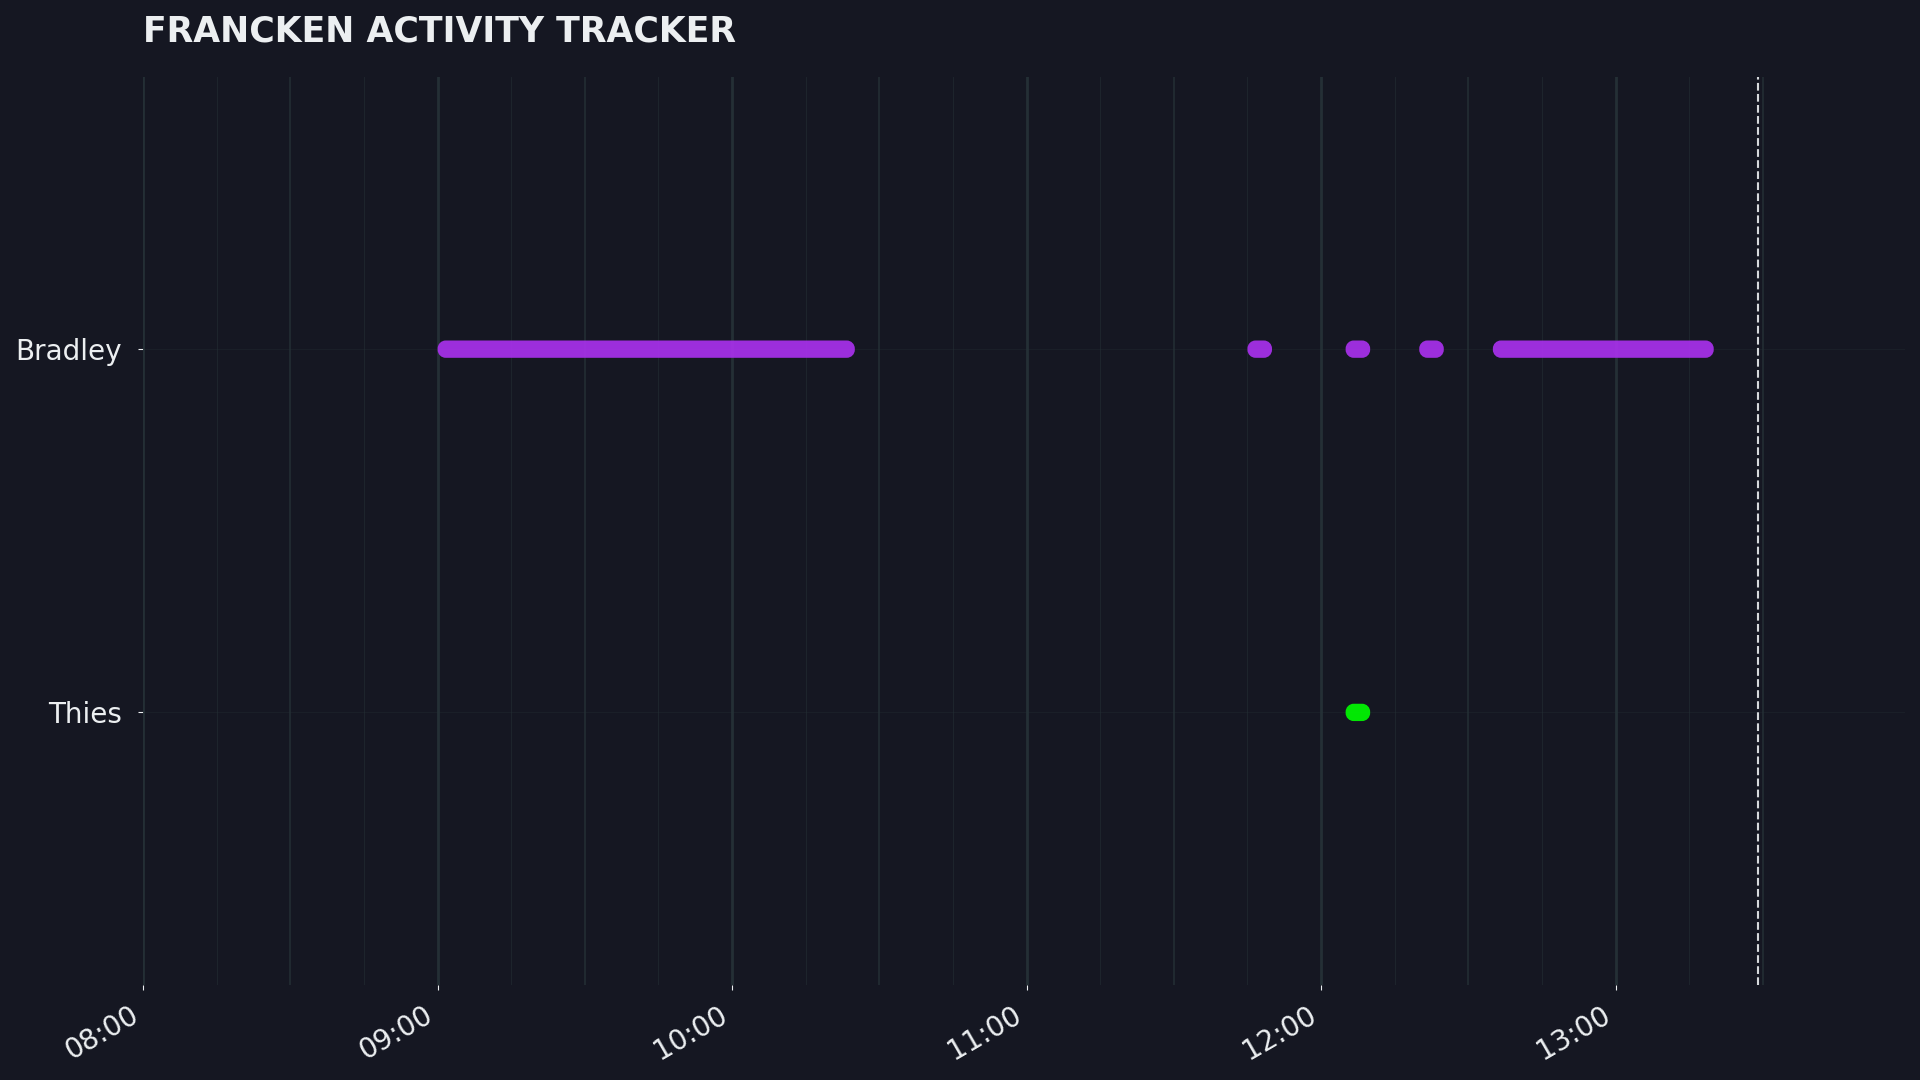
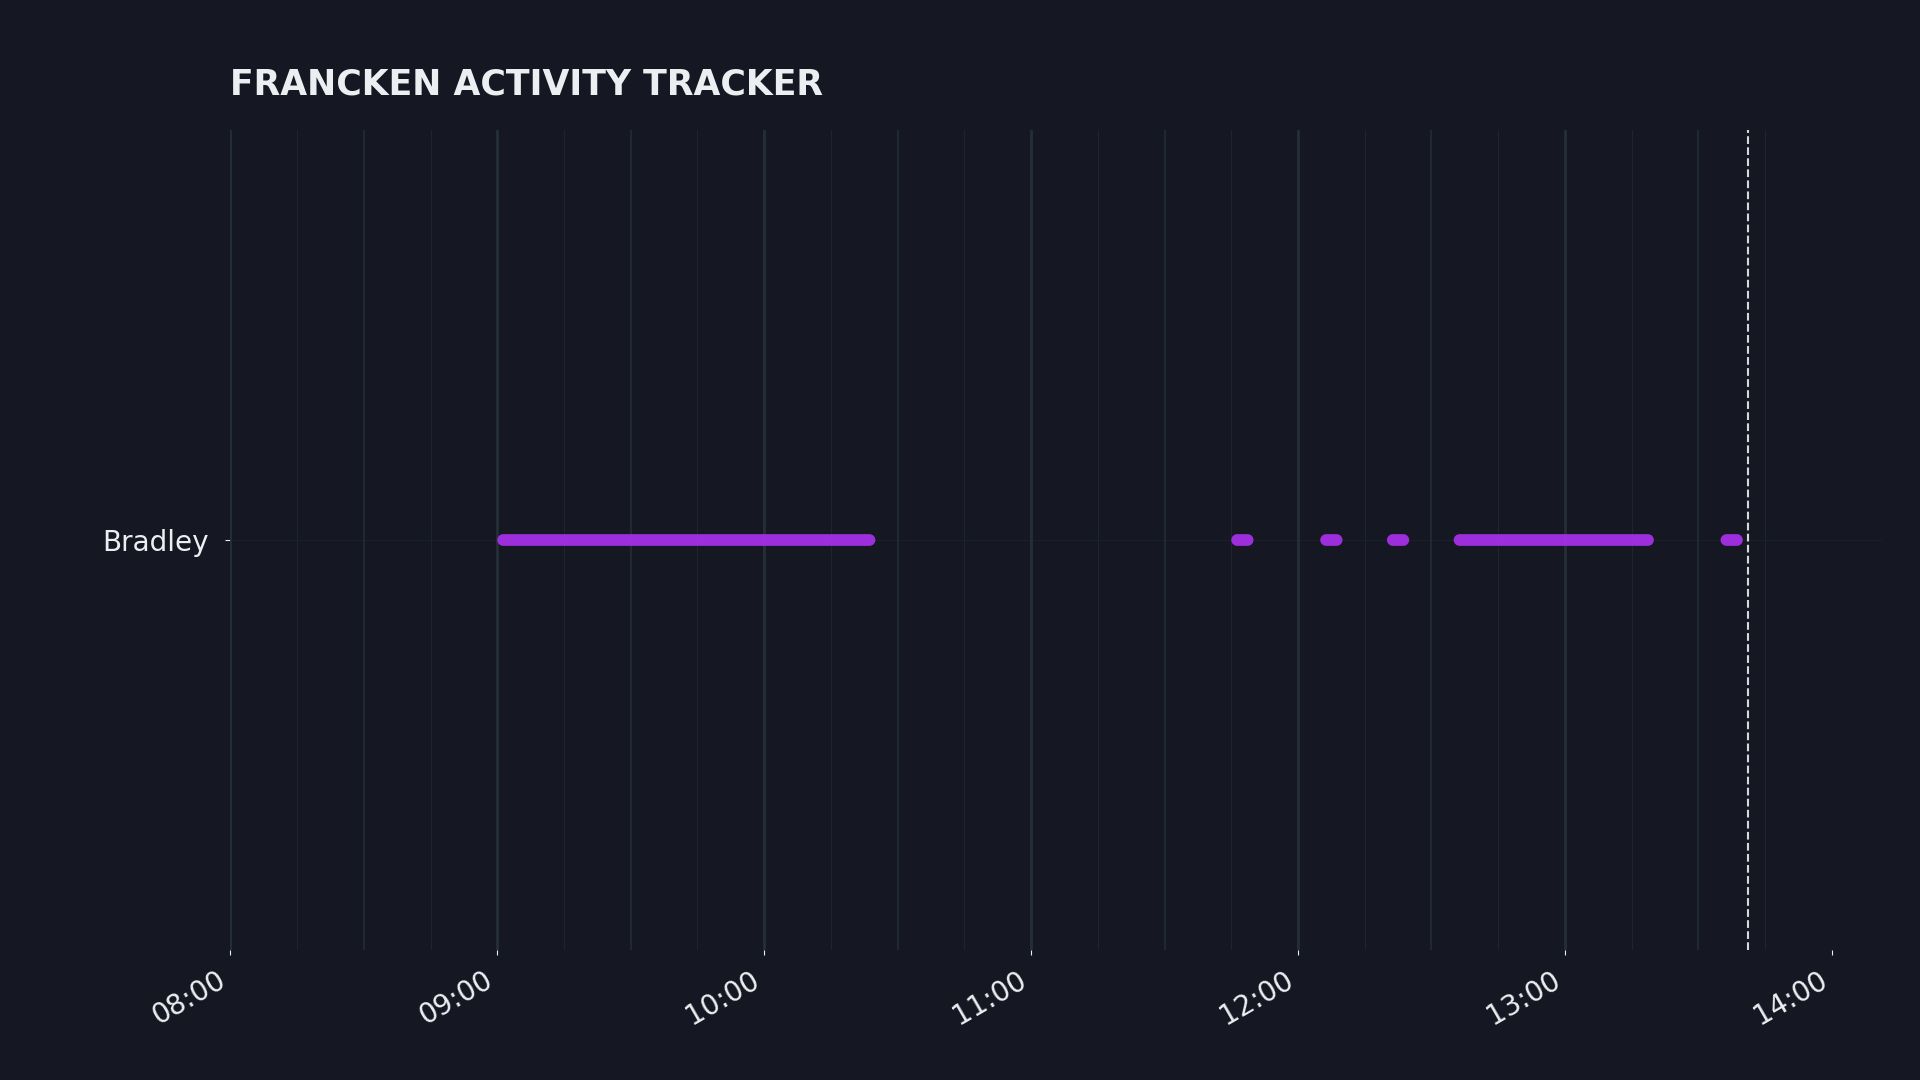
added a ps1 script to start the sniffer and announce names using text-to-speech. The script sets an environment variable with a greeting message and uses PowerShell to invoke the speech synthesis.

diff --git a/run_system.py b/run_system.py
@@ -1,10 +1,53 @@
+import os
+from pathlib import Path
 import subprocess
 import time
 import sys
-import os
 
-# Get the correct Python path from PlatformIO that we used earlier
-PIO_PYTHON = r"C:\Users\LEDEN\.platformio\penv\Scripts\python.exe"
+
+def has_required_modules(python_executable, required_modules):
+    check_command = [
+        python_executable,
+        '-c',
+        'import ' + ','.join(required_modules),
+    ]
+    result = subprocess.run(
+        check_command,
+        stdout=subprocess.DEVNULL,
+        stderr=subprocess.DEVNULL,
+        check=False,
+    )
+    return result.returncode == 0
+
+
+def find_python_executable(required_modules):
+    candidates = [
+        sys.executable,
+        str(Path(__file__).parent / '.venv' / 'Scripts' / 'python.exe'),
+        os.path.expanduser(
+            r'~\.platformio\penv\Scripts\python.exe'
+        ),
+    ]
+
+    checked_candidates = set()
+    for candidate in candidates:
+        if candidate in checked_candidates:
+            continue
+        checked_candidates.add(candidate)
+
+        if (
+            Path(candidate).is_file()
+            and has_required_modules(candidate, required_modules)
+        ):
+            return candidate
+
+    raise RuntimeError(
+        'No Python environment with the required project dependencies was found.'
+    )
+
+
+LOGGER_PYTHON = find_python_executable(('serial',))
+PLOTTER_PYTHON = find_python_executable(('pandas', 'matplotlib'))
 
 # Check whether the user passed '--all' to this main script
 arguments = sys.argv[1:]
@@ -15,8 +58,8 @@ print("=" * 60)
 
 # 1. Start the logging script in the background
 print("🚀 Step 1: Starting the logging system in the background...")
-log_command = [PIO_PYTHON, "filter_logs.py"] + arguments
-voice_command = [PIO_PYTHON, "voice_announcer.py"]
+log_command = [LOGGER_PYTHON, "filter_logs.py"] + arguments
+voice_command = [LOGGER_PYTHON, "voice_announcer.py"]
 
 voice_process = subprocess.Popen(voice_command)
 log_process = subprocess.Popen(log_command)
@@ -30,7 +73,7 @@ print("-" * 60)
 try:
     # Generate an initial graph immediately at startup
     print(f"[{time.strftime('%H:%M:%S')}] Generating initial graph...")
-    subprocess.run(["python", "plot_activity.py"])
+    subprocess.run([PLOTTER_PYTHON, "plot_activity.py"])
     
     while True:
         # Wait 30 seconds (300 seconds)
@@ -40,7 +83,7 @@ try:
         print(f"\n[{time.strftime('%H:%M:%S')}] 5 minutes elapsed. Updating graph live...")
         
         # Call plot_activity.py with the default Anaconda Python
-        subprocess.run(["python", "plot_activity.py"])
+        subprocess.run([PLOTTER_PYTHON, "plot_activity.py"])
 
 except KeyboardInterrupt:
     print("\n\n🛑 Ctrl+C detected! Shutting down the system...")

diff --git a/plot_activity.py b/plot_activity.py
@@ -28,6 +28,13 @@ FIGURE_SIZE = (19.2, 10.8)
 FIGURE_DPI = 100
 CORNER_RADIUS = 8
 CURVE_FACTOR = 0.5522848
+VERTICAL_AXIS_PADDING = 1.0
+SUBPLOT_MARGINS = {
+    'left': 0.12,
+    'right': 0.98,
+    'bottom': 0.12,
+    'top': 0.88,
+}
 
 # Load custom colors from filter.json.
 mac_colors = {}
@@ -159,7 +166,10 @@ ax.set_xlim(
     mdates.date2num(datetime.combine(today, time(8, 0))),
     mdates.date2num(current_datetime + timedelta(minutes=30))
 )
-ax.set_ylim(-0.75, len(unieke_namen) - 0.25)
+ax.set_ylim(
+    -VERTICAL_AXIS_PADDING,
+    len(unieke_namen) - 1 + VERTICAL_AXIS_PADDING,
+)
 
 # Configure Y-axis labels.
 ax.set_yticks(range(len(unieke_namen)))
@@ -229,7 +239,7 @@ ax.set_title(
 
 # Finalize layout before converting marker coordinates to screen space.
 fig.autofmt_xdate()
-plt.tight_layout()
+fig.subplots_adjust(**SUBPLOT_MARGINS)
 
 fig.canvas.draw()
 data_transform = ax.transData
